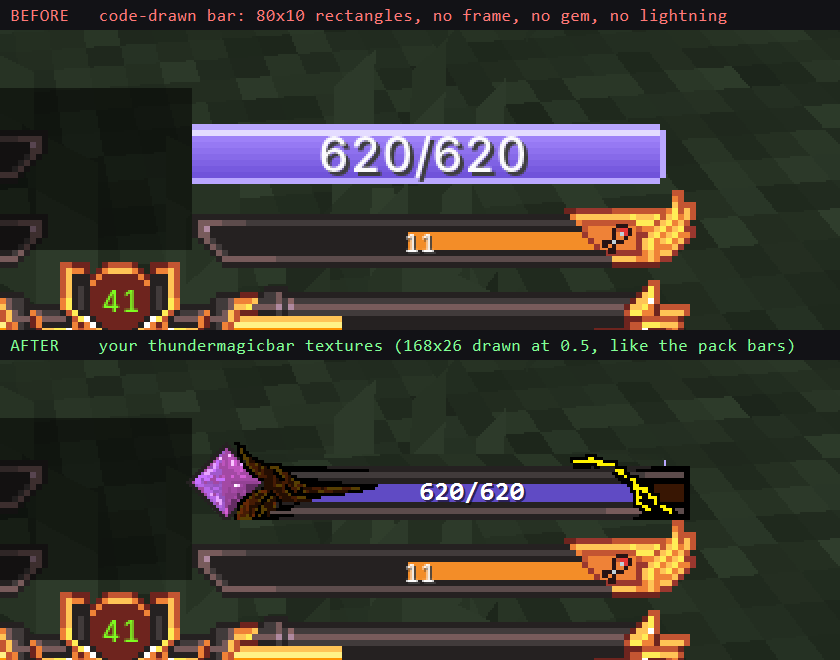
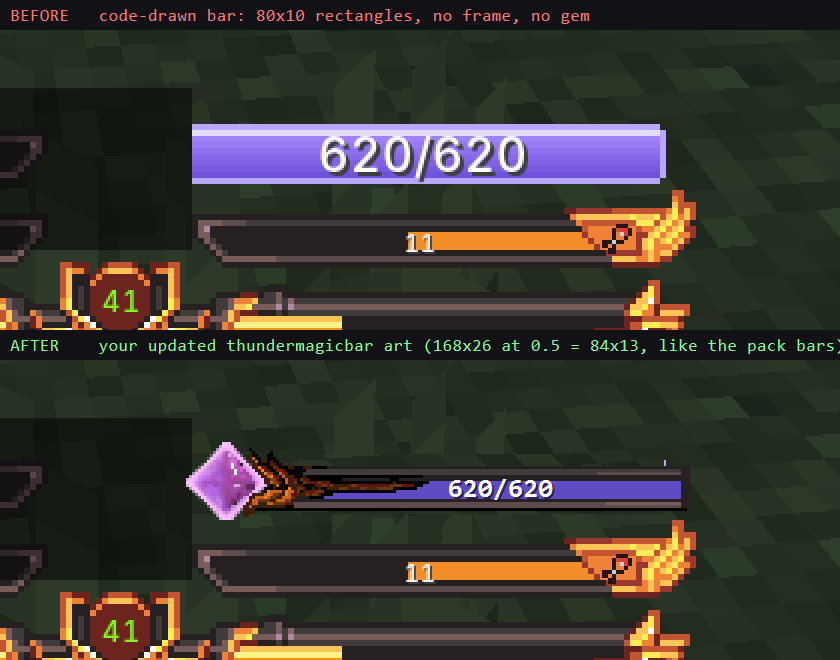
feat(客户端): 跟进用户新版 thundermagicbar 贴图（去掉闪电、轨道加长）
用户重新画了两张 168x26（1.9KB -> 3.0KB），两处变化：
- 右边的闪电没了，轨道一直延伸到贴图右端，末尾是一个深色封口；
- 左边的魔法石变大并挪到最左，上下两个尖正好顶到画布边缘（v 0 和 v 25）。

所以重新量了"轨道"范围。这次用**两张图逐像素相减**：
empty 和 fill 只差轨道那一块，差异像素的包围盒就是轨道 —— 比按颜色猜可靠得多
（上一版就是靠颜色分宝石/轨道，边界容易糊）。
  旧: u 42..148, v 14..19   (107 x 6)
  新: u 46..164, v 13..18   (119 x 6)
TRACK_U/V/W/H 跟着更新。顺带把数字的中线改成"先按贴图坐标算、再除以 2"，
比"先 0.5 倍取整、再算中线"准一像素（(13+3)/2 = 8，原来算出来是 7）。

贴图尺寸和位置都没变：画布还是 168x26、还是按 0.5 倍画成 84x13、
还是贴在饱食度正上方（高-63 .. 高-50），所以版面代码一行没动。

预览图 docs/previews/mana_bar_thunder.png 用新贴图重出了。

Changed region(s): [[0.2167, 0.6667, 0.8357, 0.7879], [0.1548, 0.5152, 1.0, 0.5455], [0.7119, 0.0, 0.8667, 0.0303]]

diff --git a/src/main/java/com/tnc/tnc/client/MagicStoneHud.java b/src/main/java/com/tnc/tnc/client/MagicStoneHud.java
@@ -96,21 +96,25 @@ public final class MagicStoneHud {
     private static final int BAR_H = TEX_H / 2;
 
     /**
-     * 贴图里"真正会涨的那一段轨道"的范围（逐像素量出来的）：
-     * {@code u 42..148, v 14..19}。
+     * 贴图里"真正会涨的那一段轨道"的范围。
      *
-     * <p>左边 0..41 是宝石和金框、右边 149+ 是闪电，那两段永远不动；
-     * 按比例裁剪时必须只裁中间这段，否则一裁剪就把宝石/闪电也切掉了。
+     * <p>这张图里 {@code empty} 和 {@code fill} <b>只差轨道那一块</b>，
+     * 所以最可靠的量法是把两张图逐像素相减、差异像素的包围盒就是轨道：
+     * <b>u 46..164, v 13..18</b>（119 x 6 贴图像素）。
+     *
+     * <p>左边 0..26 是魔法石（27x26）、再往右到 45 是金框和翅膀，那两段永远不动；
+     * 轨道最左端（u 46..48）只有 v=18 一行，是画成尖头的引导边 ——
+     * 按比例裁剪时必须整段一起裁，否则会把尖头切掉。
      */
-    private static final int TRACK_U = 42;
-    private static final int TRACK_V = 14;
-    private static final int TRACK_W = 107;
+    private static final int TRACK_U = 46;
+    private static final int TRACK_V = 13;
+    private static final int TRACK_W = 119;
     private static final int TRACK_H = 6;
 
     /** 上面那段轨道换算到游戏坐标（0.5 倍）后在条子里的位置和大小。 */
-    private static final int TRACK_DX = TRACK_U / 2;          // 21
-    private static final int TRACK_DY = TRACK_V / 2;          // 7
-    private static final int TRACK_DW = TRACK_W / 2;          // 53
+    private static final int TRACK_DX = TRACK_U / 2;          // 23
+    private static final int TRACK_DY = TRACK_V / 2;          // 6
+    private static final int TRACK_DW = TRACK_W / 2;          // 59
 
     /** 原版血条/饱食度那一行的锚点（以屏幕底部为基准）。 */
     private static final int STATUS_ROW_MARGIN = 39;
@@ -253,10 +257,11 @@ public final class MagicStoneHud {
 
         // 3) 数字：压在轨道正中间，白字带阴影 ——
         //    轨道底色是紫的，白字在任何填充比例下都清晰。
+        //    中线按**贴图坐标**算再除以 2，比先用 0.5 倍取整更准。
         String text = mana + "/" + max;
         var font = minecraft.font;
-        int trackCx = x + TRACK_DX + TRACK_DW / 2;
-        int trackCy = y + TRACK_DY + (TRACK_H / 2) / 2;
+        int trackCx = x + (TRACK_U + TRACK_W / 2) / 2;
+        int trackCy = y + (TRACK_V + TRACK_H / 2) / 2;
         graphics.drawString(font, text, trackCx - font.width(text) / 2,
                 trackCy - font.lineHeight / 2 + 1, COLOR_TEXT, true);
     }
